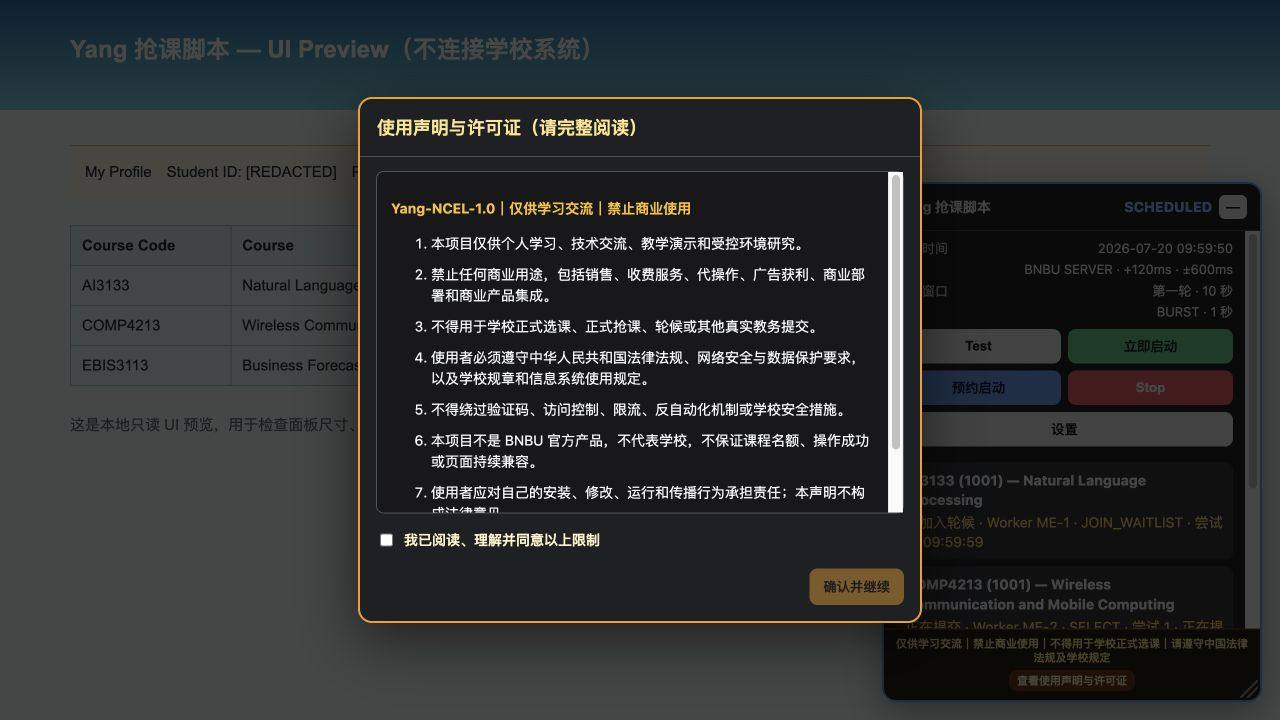
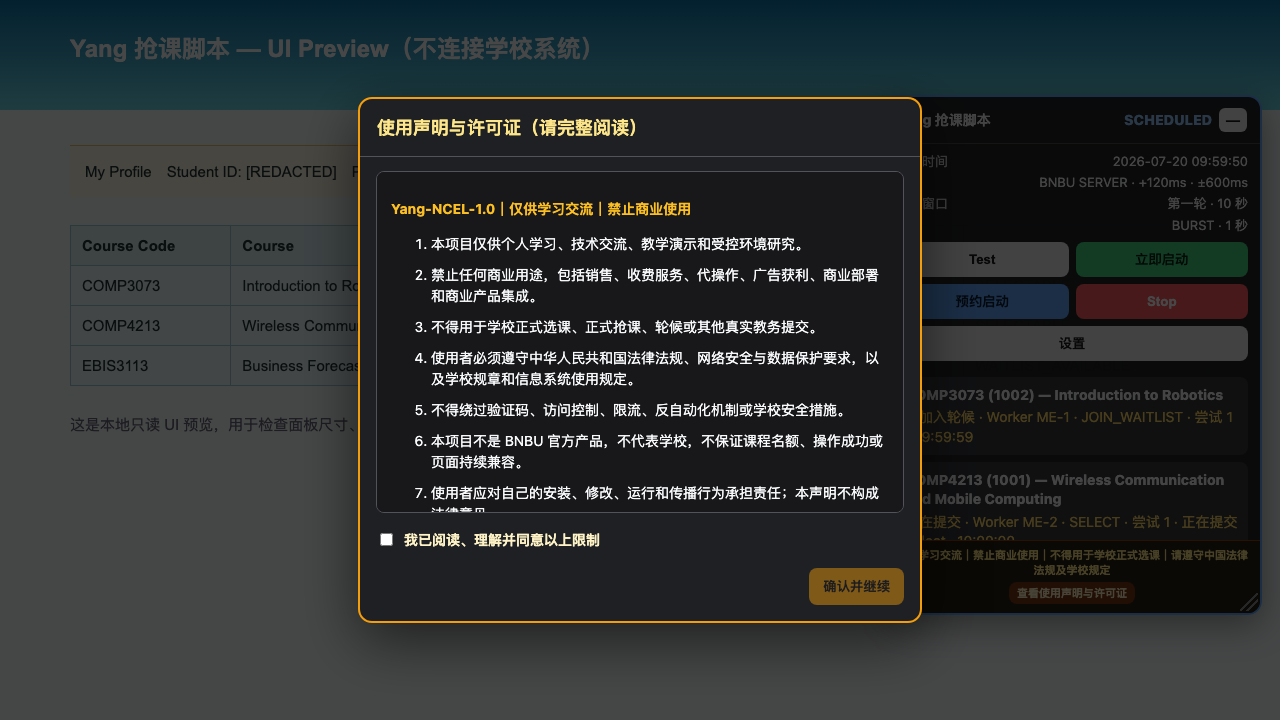
docs: synchronize robotics target defaults

diff --git a/tools/ui_preview.html b/tools/ui_preview.html
@@ -14,7 +14,7 @@
     <div class="profile">My Profile　Student ID: [REDACTED]　Programme: Computer Science and Technology</div>
     <table class="course-table">
       <tr><th>Course Code</th><th>Course</th><th>Curriculum Type</th><th>Status</th></tr>
-      <tr><td>AI3133</td><td>Natural Language Processing (1001)</td><td>ME</td><td class="selected">SELECTABLE</td></tr>
+      <tr><td>COMP3073</td><td>Introduction to Robotics (1002)</td><td>ME</td><td class="selected">SELECTABLE</td></tr>
       <tr><td>COMP4213</td><td>Wireless Communication and Mobile Computing (1001)</td><td>ME</td><td class="selected">SELECTABLE</td></tr>
       <tr><td>EBIS3113</td><td>Business Forecasting and Machine Learning (1002)</td><td>FE</td><td>WAITLIST_AVAILABLE</td></tr>
     </table>
@@ -37,7 +37,7 @@
       pollPhaseText: "BURST · 1 秒",
       message: "预览：到点自动运行，也可随时点击立即启动。",
       courseStatuses: {
-        "AI3133:1001": { status: "WAITING", workerSlotId: "ME-1", actionType: "JOIN_WAITLIST", attempts: 1, reason: "已加入轮候", scannedAt: "09:59:59" },
+        "COMP3073:1002": { status: "WAITING", workerSlotId: "ME-1", actionType: "JOIN_WAITLIST", attempts: 1, reason: "已加入轮候", scannedAt: "09:59:59" },
         "COMP4213:1001": { status: "SUBMITTING", workerSlotId: "ME-2", actionType: "SELECT", attempts: 1, reason: "正在提交 Select", scannedAt: "10:00:00" },
         "EBIS3113:1002": { status: "REGISTERED", workerSlotId: "FE-1", actionType: "SELECT", attempts: 1, reason: "已抢到", scannedAt: "10:00:01" }
       }

diff --git a/tools/dom_diagnostic.user.js b/tools/dom_diagnostic.user.js
@@ -12,7 +12,7 @@
 
 (() => {
   "use strict";
-  const targets = [["AI3133", "1001"], ["COMP4213", "1001"], ["EBIS3113", "1002"]];
+  const targets = [["COMP3073", "1002"], ["COMP4213", "1001"], ["EBIS3113", "1002"]];
   const safeText = (value) => String(value ?? "")
     .replace(/\b\d{9,12}\b/g, "[REDACTED_ID]")
     .replace(/(student\s*id|name)\s*:\s*[^|\n]+/gi, "$1:[REDACTED]")

diff --git a/README.md b/README.md
@@ -26,7 +26,7 @@
 - 本项目不是 BNBU 官方产品，使用者必须自行遵守中华人民共和国法律法规、学校规章和系统使用政策。
 - 软件不保证课程名额或最终选课结果。正式页面可能随时变化，应先使用 `Test` 检查。
 - `v1.2.2` 已通过自动化 DOM、页面函数、Hot Page、Worker 租约、合规确认和面板布局测试，但未在学校正式选课窗口执行真实提交验收。
-- 公开版默认预填 AI3133、COMP4213 和 EBIS3113；其他使用者安装后必须先在 `设置` 中替换为自己的目标。
+- 公开版默认预填 COMP3073、COMP4213 和 EBIS3113；其他使用者安装后必须先在 `设置` 中替换为自己的目标。
 
 ## 功能
 
@@ -59,7 +59,7 @@
 
 1. 登录 [BNBU MIS](https://mis.bnbu.edu.cn/mis/login.jsp)，进入选课状态页。
 2. 完整阅读首次使用声明，滚动到底并勾选确认。确认前只允许 `Test` 和设置，不允许启动或自动动作。
-3. 打开面板的 `设置`，确认默认目标是否正是 AI3133 (1001)、COMP4213 (1001) 和 EBIS3113 (1002)。
+3. 打开面板的 `设置`，确认默认目标是否正是 COMP3073 (1002)、COMP4213 (1001) 和 EBIS3113 (1002)。
 4. 如目标不同，逐门填写：课程代码、MIS 页面显示的完整名称、四位班号、类别 `ME` 或 `FE`。
 5. 保存后刷新页面，点击 `Test`。
 6. 可先手动打开 ME/FE 详情页；脚本会把它识别为前台优先页。点击 `Test` 核对目标。

diff --git a/docs/MANUAL_FIRST_HOT_PAGE_DESIGN.md b/docs/MANUAL_FIRST_HOT_PAGE_DESIGN.md
@@ -25,7 +25,7 @@
 任何由用户手动打开、没有 Worker 标记的 `eleDetail.do` 页面都成为前台优先页：
 
 - 根据页面表格识别本页类别，而不是依赖 URL 参数。
-- 一次扫描本类别的全部目标，例如一个 ME 页面同时检查 AI3133 和 COMP4213。
+- 一次扫描本类别的全部目标，例如一个 ME 页面同时检查 COMP3073 和 COMP4213。
 - 页面初始化后立即扫描，不等待校时、Worker 池或下一次轮询。
 - 全局为 `RUNNING` 时允许进入共享动作队列；`STOPPED` 或预约尚未开始时仅显示识别结果。
 - 使用与专用 Worker 相同的动作白名单、精确课程匹配、原生确认桥、共享动作锁和提交结果验证。

diff --git a/docs/MANUAL_TEST_CHECKLIST.md b/docs/MANUAL_TEST_CHECKLIST.md
@@ -7,7 +7,7 @@
 - [ ] 面板显示 STOPPED/SCHEDULED/RUNNING、北京时间、校时、下一窗口、轮询阶段、Test、立即启动、预约启动、Stop 和设置。
 - [ ] `Test` 不触发确认框、不调用选课函数。
 - [ ] `Test` 先返回当前页面结果，不等待后台 Worker 全部加载。
-- [ ] 默认显示 AI3133 (1001)、COMP4213 (1001)、EBIS3113 (1002)；每个目标的代码、完整名称和班号唯一匹配，页面函数显示 READY。
+- [ ] 默认显示 COMP3073 (1002)、COMP4213 (1001)、EBIS3113 (1002)；每个目标的代码、完整名称和班号唯一匹配，页面函数显示 READY。
 
 ## 合规确认
 

diff --git a/docs/README.md b/docs/README.md
@@ -48,7 +48,7 @@
 
 ## 公开默认配置
 
-仓库默认预填 AI3133 (1001)、COMP4213 (1001) 和 EBIS3113 (1002)。升级时只有完全未经修改的三条旧 DEMO 会自动迁移；任何自定义目标都原样保留。其他使用者必须在面板的`设置`中填写自己的课程代码、完整名称、四位班号和 ME/FE 类别。
+仓库默认预填 COMP3073 (1002)、COMP4213 (1001) 和 EBIS3113 (1002)。升级时，只有完全未经修改的旧三门公开默认配置或更早的三条 DEMO 配置会自动迁移；任何自定义目标都原样保留。其他使用者必须在面板的`设置`中填写自己的课程代码、完整名称、四位班号和 ME/FE 类别。
 
 ## 构建与发布
 

diff --git a/CHANGELOG.md b/CHANGELOG.md
@@ -6,6 +6,7 @@
 - Added a mandatory first-run acknowledgement that keeps automatic actions stopped until the complete learning-use notice is read and accepted.
 - Added persistent non-commercial, non-production-use notices to the controller, collapsed panel tooltip and Worker status bars.
 - Documented that the project is unofficial, provides no course-result guarantee, and must be used in accordance with Chinese laws, school rules and system policies.
+- Replaced the untouched AI3133 (1001) default target with COMP3073 (1002), while preserving COMP4213, EBIS3113 and every customized target list.
 
 ## 1.2.1 - 2026-07-13
 

diff --git a/docs/releases/v1.2.2.md b/docs/releases/v1.2.2.md
@@ -8,6 +8,7 @@
 - 升级后首次运行必须完整阅读并确认使用声明；确认前保持 `STOPPED`，不创建自动 Worker，也不执行任何选课动作。
 - 完整面板、收起状态、Worker 状态条和通知持续显示学习测试用途提示。
 - README、安全政策、贡献规则、Issue 模板和发布包同步声明必须遵守中华人民共和国法律法规、学校规章及系统政策。
+- 当前默认目标更新为 COMP3073 (1002)、COMP4213 (1001) 和 EBIS3113 (1002)；只有完全未经修改的旧公开默认配置会自动替换 AI3133，用户自定义目标保持不变。
 
 ## 重要声明
 